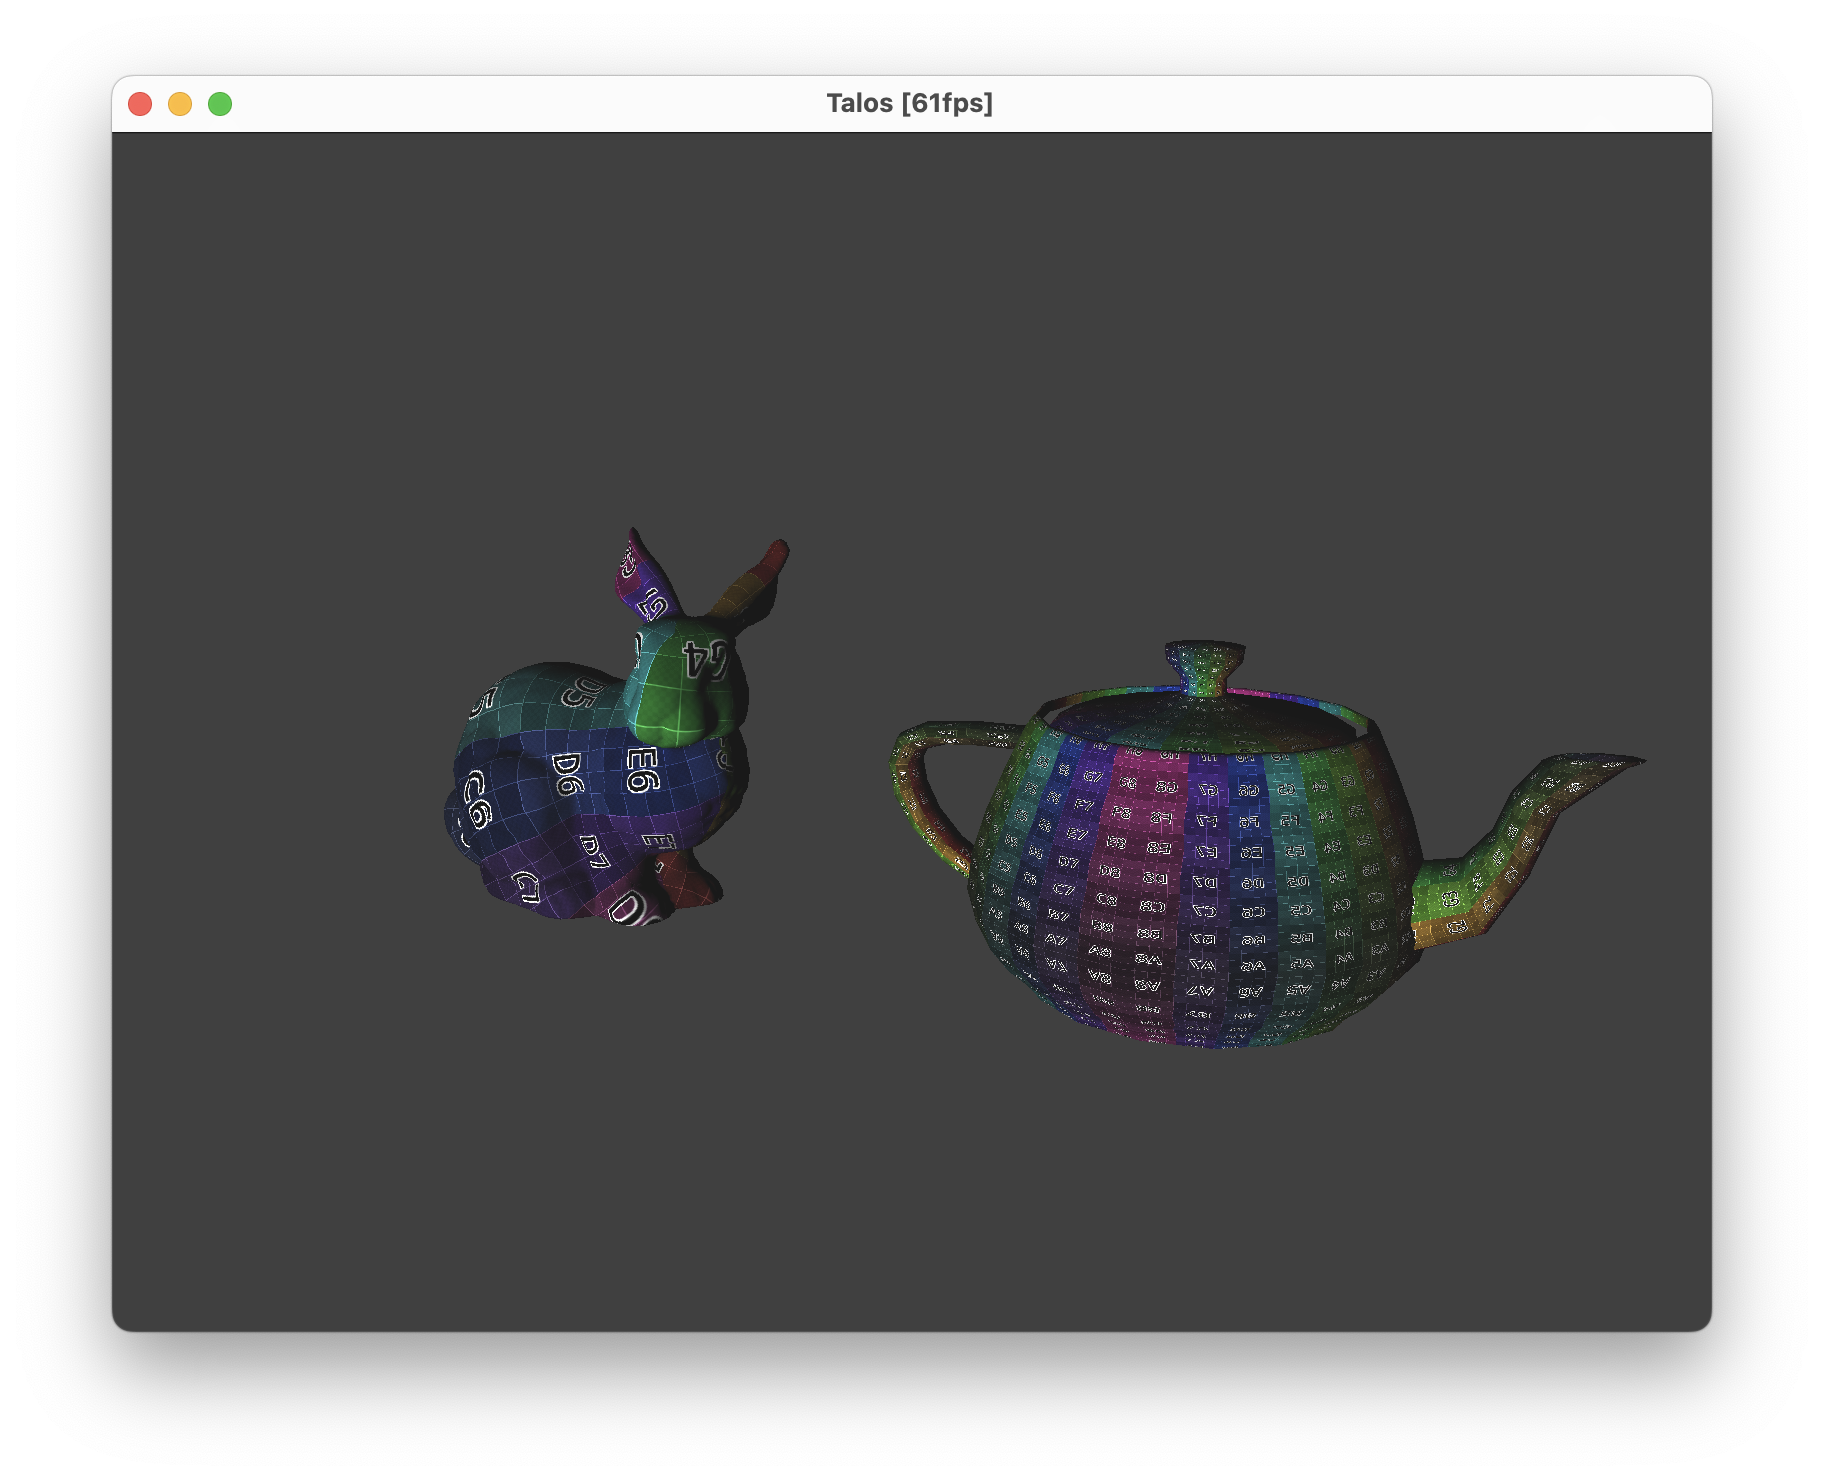
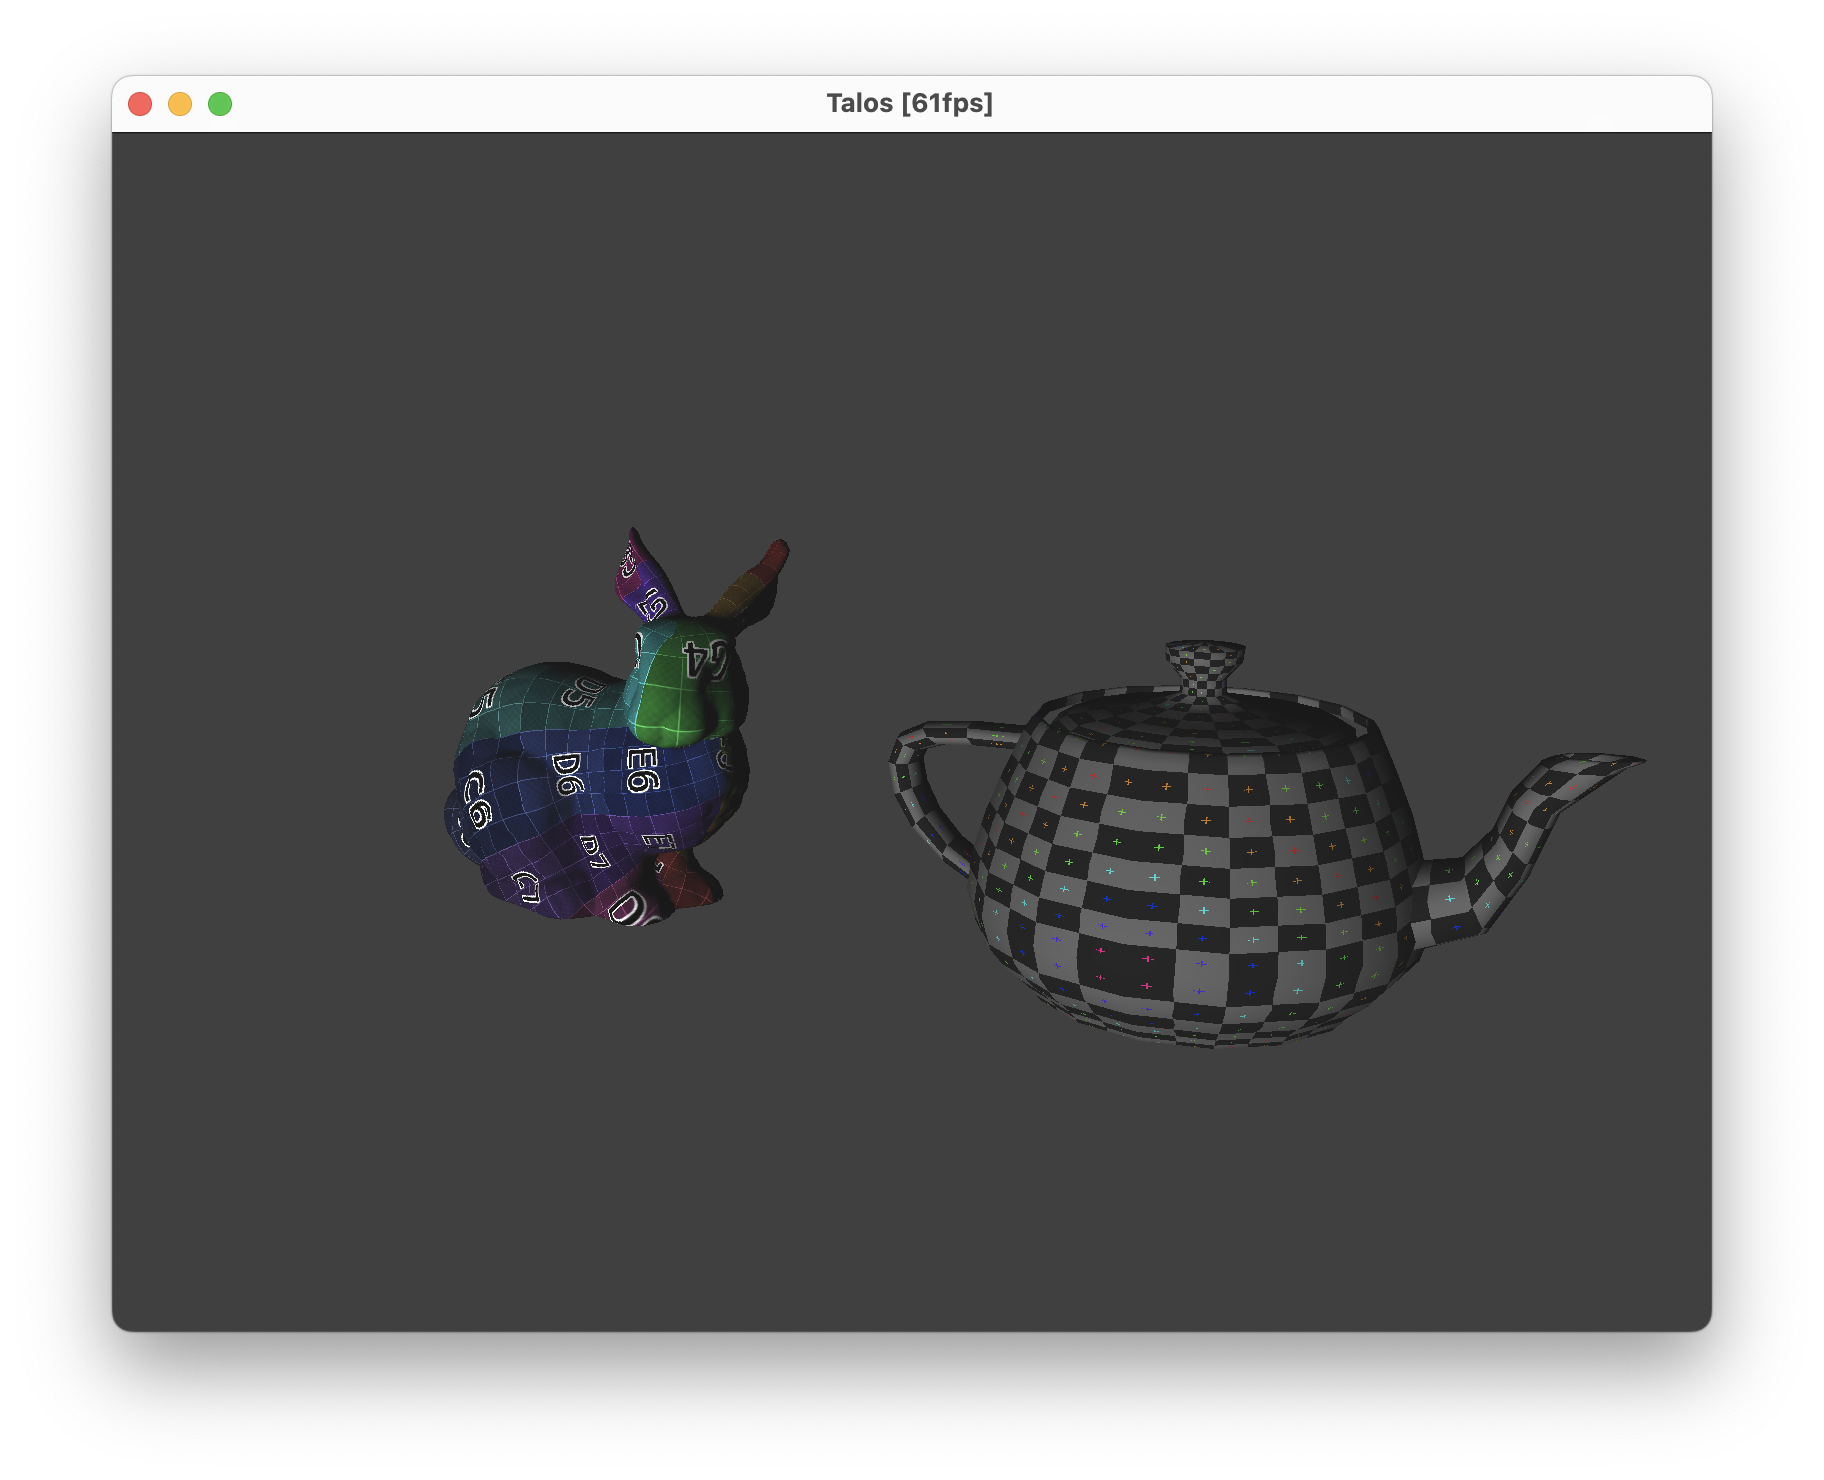
Add multiple materials

Changed region(s): [[0.4688, 0.4351, 0.9062, 0.7149]]

diff --git a/Talos3D/Renderer.swift b/Talos3D/Renderer.swift
@@ -24,8 +24,8 @@ let BUNNY_MODEL_NAME        = "bunny"
 let TEAPOT_MODEL_NAME       = "teapot"
 let OBJ_FILE_EXTENSION      = "obj"
 
-let TEST_TEXTURE_NAME      = "TestTexture1"
-//let TEST_TEXTURE_EXTENSION = "png"
+let TEST_TEXTURE_NAME_1     = "TestTexture1"
+let TEST_TEXTURE_NAME_2     = "TestTexture2"
 
 public class Renderer: NSObject, MTKViewDelegate
 {
@@ -76,11 +76,9 @@ public class Renderer: NSObject, MTKViewDelegate
 
         mDepthStencilState = mView.device?.makeDepthStencilState(descriptor: depthStencilDesc)
 
-        self.material = Material(pipeline: pipeline)
-        self.material.textures = Self.loadTextures(device: mtkView.device!)
-
         super.init()
 
+        self.createMaterials(device: mtkView.device!)
         self.buildScene(device: mtkView.device!)
         mView.delegate = self
     }
@@ -234,6 +232,27 @@ public class Renderer: NSObject, MTKViewDelegate
     public var mView: MTKView
 
     // MARK: - Private
+    private func createMaterials(device: MTLDevice)
+    {
+        let material1 = Material(pipeline: pipeline)
+        if let tex = Self.loadTexture(name: TEST_TEXTURE_NAME_1,
+                                      index: ALBEDO_MAP_INDEX,
+                                      device: device)
+        {
+            material1.textures.append(tex)
+        }
+
+        let material2 = material1.copy() as! Material
+        if let tex = Self.loadTexture(name: TEST_TEXTURE_NAME_2,
+                                      index: ALBEDO_MAP_INDEX,
+                                      device: device)
+        {
+            material2.textures.append(tex)
+        }
+        self.materials.append(material1)
+        self.materials.append(material2)
+    }
+
     private func buildScene(device: MTLDevice)
     {
         let cam = Camera()
@@ -257,7 +276,7 @@ public class Renderer: NSObject, MTKViewDelegate
         {
             let model = Model(device: device,
                               url: modelURL,
-                              material: self.material)
+                              material: self.materials[0])
 
             let rotDegrees = SLA.rad2deg(0.5 * TAU)
             model.rotate(eulerAngles: Vector3(x: 0, y: rotDegrees, z: 0))
@@ -275,7 +294,7 @@ public class Renderer: NSObject, MTKViewDelegate
         {
             let model = Model(device: device,
                               url: modelURL,
-                              material: self.material)
+                              material: self.materials[1])
 
             model.scale(by: 0.01)
             model.move(to: Vector3(x:0.35, y:0.075, z:0))
@@ -289,31 +308,32 @@ public class Renderer: NSObject, MTKViewDelegate
     }
 
     // TODO: Load textures on demand
-    static private func loadTextures(device: MTLDevice) -> [Texture]
+    static private func loadTexture(name: String, index: Int, device: MTLDevice) -> Texture?
     {
         // TODO: Async?
         let textureLoader = MTKTextureLoader(device: device)
 
         let textureLoaderOptions = [
             MTKTextureLoader.Option.textureUsage: NSNumber(value: MTLTextureUsage.shaderRead.rawValue),
-            MTKTextureLoader.Option.textureStorageMode: NSNumber(value: MTLStorageMode.`private`.rawValue)
+            MTKTextureLoader.Option.textureStorageMode: NSNumber(value: MTLStorageMode.`private`.rawValue),
+            MTKTextureLoader.Option.generateMipmaps: true
         ]
 
         do
         {
-            let mtlTex = try textureLoader.newTexture(name: TEST_TEXTURE_NAME,
+            let mtlTex = try textureLoader.newTexture(name: name,
                                                       scaleFactor: 1.0,
                                                       bundle: nil,
                                                       options: textureLoaderOptions)
 
-            var texture = Texture(mtlTexture: mtlTex, label: TEST_TEXTURE_NAME)
-            texture.setIndex(ALBEDO_MAP_INDEX, stage: .Fragment)
-            return [texture]
+            var texture = Texture(mtlTexture: mtlTex, label: name)
+            texture.setIndex(index, stage: .Fragment)
+            return texture
         }
         catch
         {
-            SimpleLogs.ERROR("Couldn't load texture \(TEST_TEXTURE_NAME)")
-            return []
+            SimpleLogs.ERROR("Couldn't load texture \(name)")
+            return nil
         }
     }
 
@@ -348,5 +368,5 @@ public class Renderer: NSObject, MTKViewDelegate
     private var mDepthStencilState: MTLDepthStencilState?
 
     private var scene: Scene!
-    private var material: Material // TODO: material cache?
+    private var materials: [Material] = [] // TODO: Default material
 }

diff --git a/Talos3D/Material.swift b/Talos3D/Material.swift
@@ -7,8 +7,9 @@
 
 import MetalKit
 import SLA
+import SimpleLogs
 
-public class Material
+public class Material : NSCopying
 {
     init(pipeline pso: Pipeline)
     {
@@ -18,19 +19,40 @@ public class Material
         samplers = []
     }
 
+    public func copy(with zone: NSZone? = nil) -> Any
+    {
+        let newMaterial = Material(pipeline: self.pipeline)
+        newMaterial.textures = self.textures
+        newMaterial.samplers = self.samplers
+        newMaterial.params   = self.params
+        return newMaterial
+    }
+
     func getVertexShader()   -> MTLFunction? { pipeline.descriptor.vertexFunction }
     func getFragmentShader() -> MTLFunction? { pipeline.descriptor.fragmentFunction }
+
+    func swapTexture(idx: Int, newTexture: Texture)
+    {
+        if idx >= self.textures.count
+        {
+            SimpleLogs.ERROR("Index is out of bounds.")
+            return
+        }
+
+        self.textures[idx] = newTexture
+    }
 
     let pipeline: Pipeline
     var params:   MaterialParams?
     var textures: [Texture]
     var samplers: [MTLSamplerState]
-
 }
 
 struct MaterialParams
 {
-    var tint:       Vector3
-    var roughness:  Float
-    var metallic:   Float
+    var tint:               Vector3
+    var roughness:          Float
+    var metallic:           Float
+
+    private let padding:    Vector3
 }

diff --git a/Docs/Material.md b/Docs/Material.md
@@ -1,0 +1,41 @@
+# Material
+
+```mermaid
+classDiagram
+
+class Material{
+    + swapTexture()
+}
+
+NSCopying <|-- Material
+
+Pipeline *-- MTLRenderPipelineState
+Pipeline *-- MTLRenderPipelineDescriptor
+MTLRenderPipelineDescriptor *-- "0..1" MTLVertexDescriptor
+
+class ShaderResource{
+    + GetResource()
+    + GetIndexAtStage(stage: Stage)
+    + SetIndex(index: Int, stage: Stage)
+}
+
+ShaderResource -- MTLResource
+
+Texture --|> ShaderResource
+Buffer --|> ShaderResource
+
+class MaterialParams{
+    + tint: Vector3
+    + roughness: Float
+    + metallic: Float
+    - padding: Vector3
+}
+
+Material o-- Pipeline
+Material *-- "0..1" MaterialParams
+Material o--"*" Texture
+Material o--"*" MTLSamplerState
+
+MTLResource <|-- MTLTexture
+MTLResource <|-- MTLBuffer
+```
